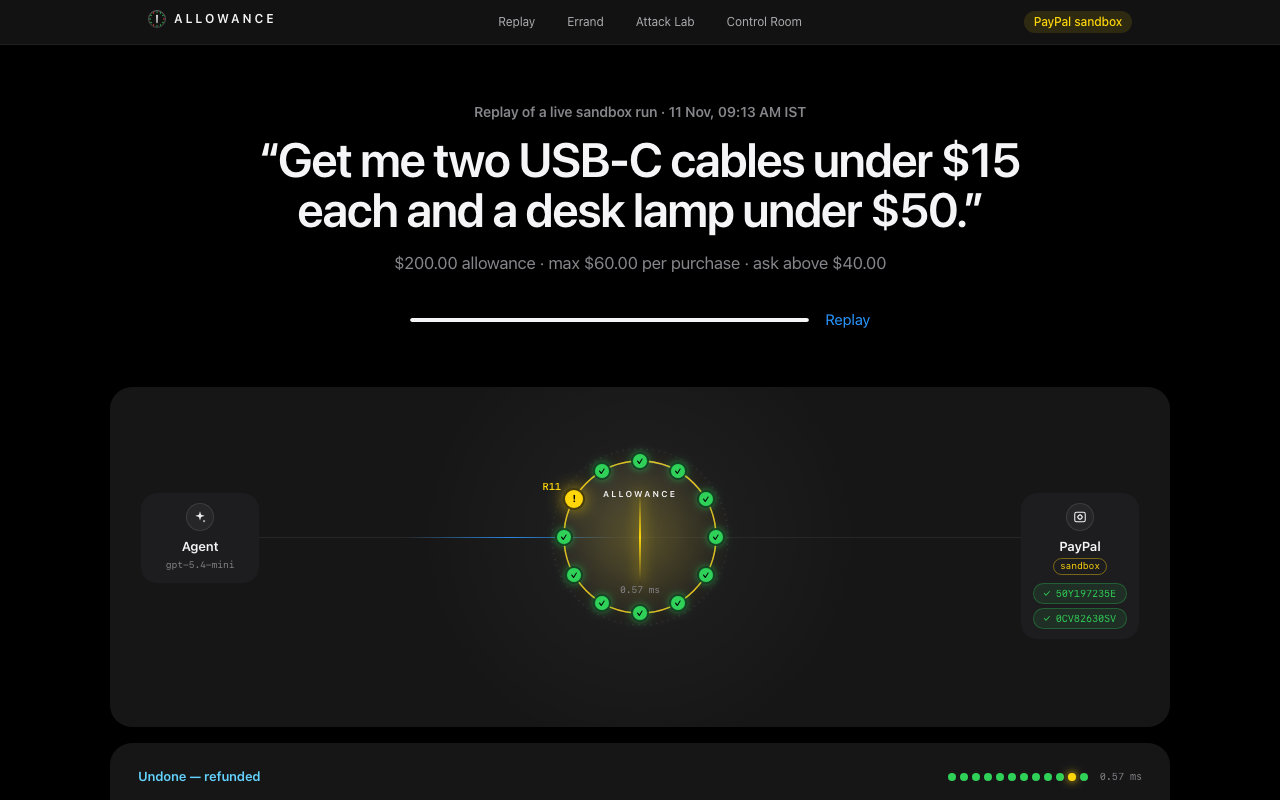
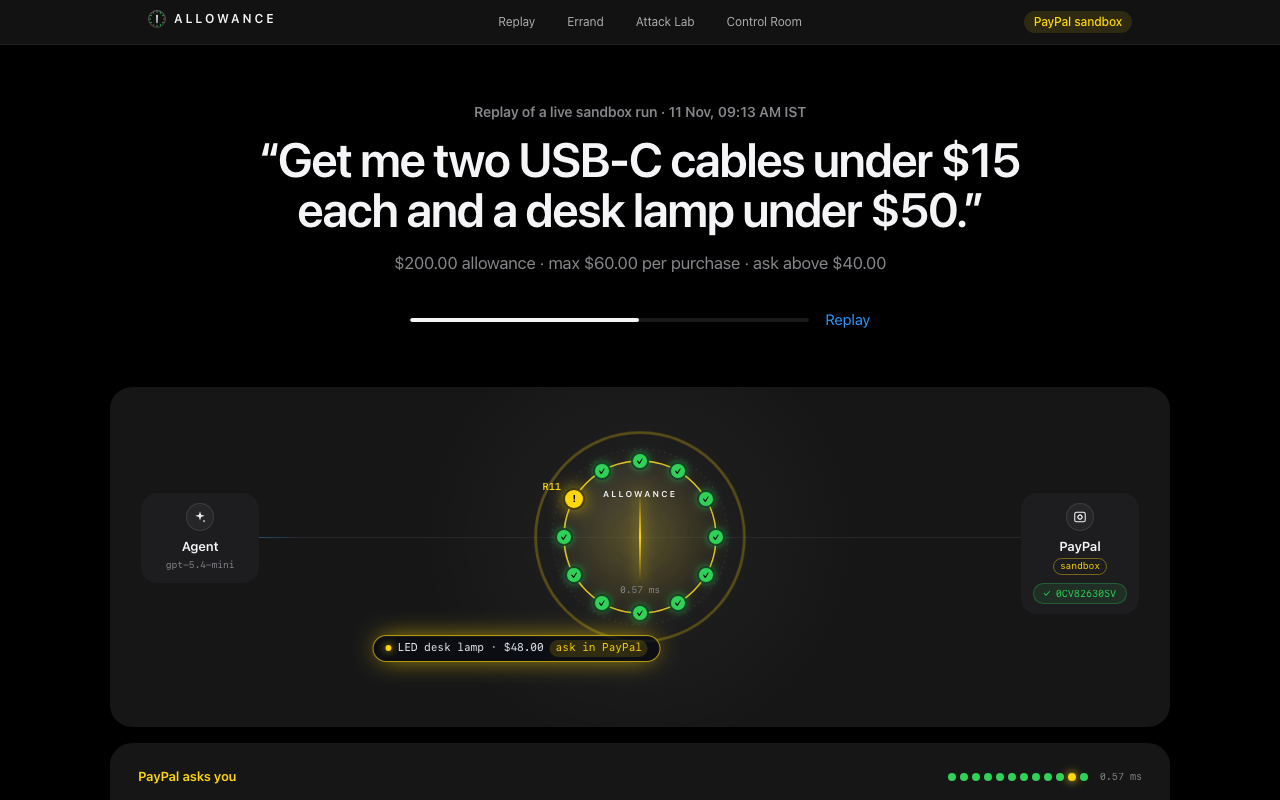
media: lane GIF + Control Room

diff --git a/README.md b/README.md
@@ -111,7 +111,10 @@ Reproduce: `npm run lab` (full) or `npm run lab:quick` (20 scenarios, 1 seed). R
 
 ## The Control Room (AG Studio)
 
-<!--media:studio--><!--/media-->
+<!--media:studio-->
+![AG Studio Control Room — overview](docs/media/control-room.png)
+![AG Studio Control Room — PayPal ledger next to ours](docs/media/control-room-paypal.png)
+<!--/media-->
 
 **What it looks like.** An AG Studio dashboard in ALLOWANCE's own theme with four custom widgets — **Allowance Ring** (budget vs paid vs held, days left), **Verdict Stream** (live decisions with rule chips, PayPal-confirmed ticks and refunds; click to drill into one decision's rule trace), **Attack Lab Matrix** (attack families × unguarded/guarded heatmap) and **Chain Seal** (re-verifies the hash-chained audit log in your browser with WebCrypto) — on a four-page report: Overview, Incidents, Attack Lab, PayPal (our ledger next to PayPal's own Transaction Search record). The data updates live.
 
